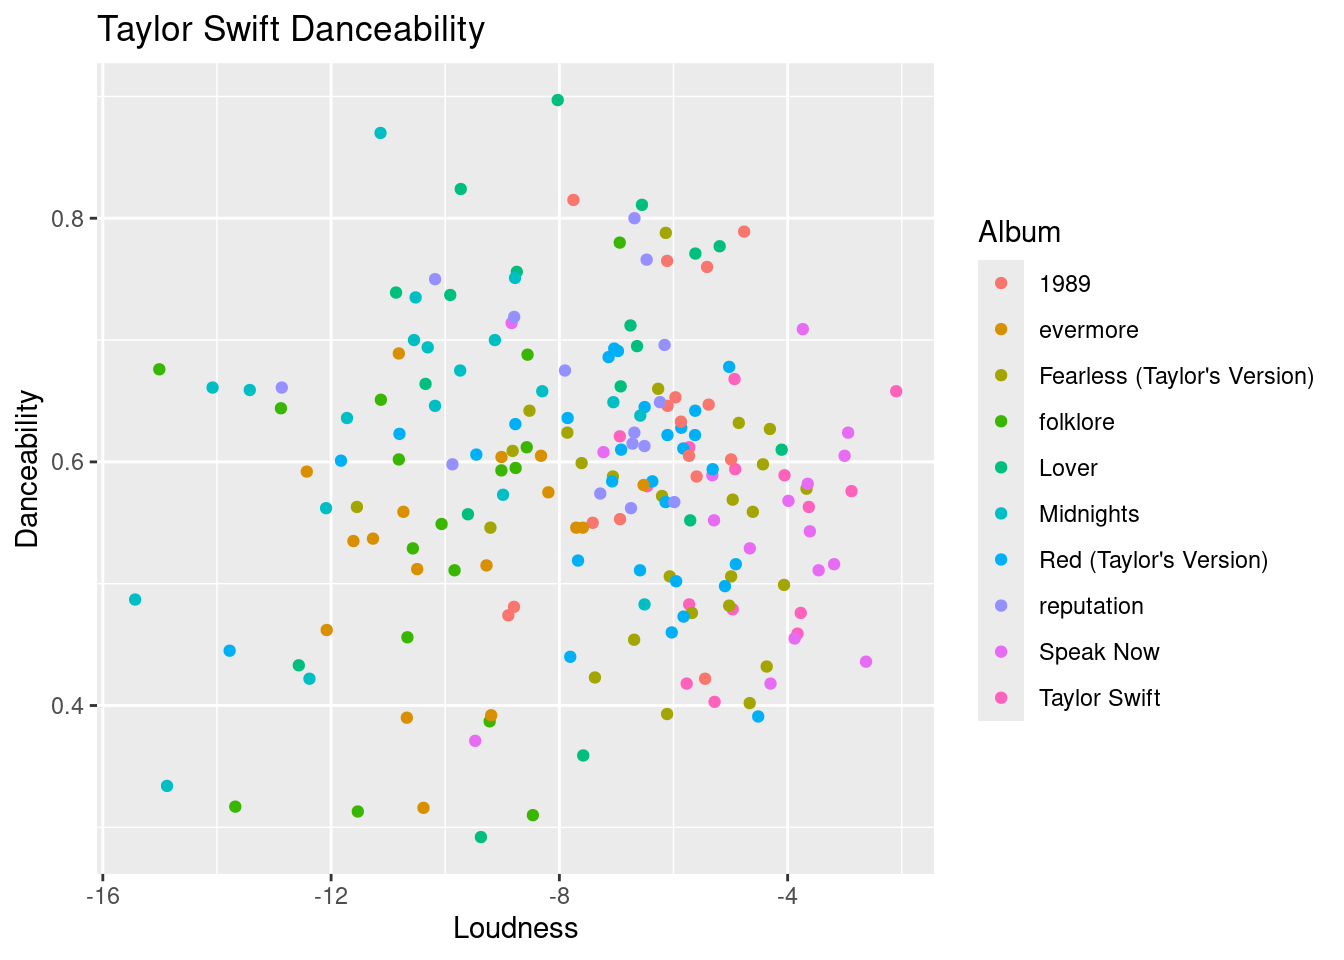
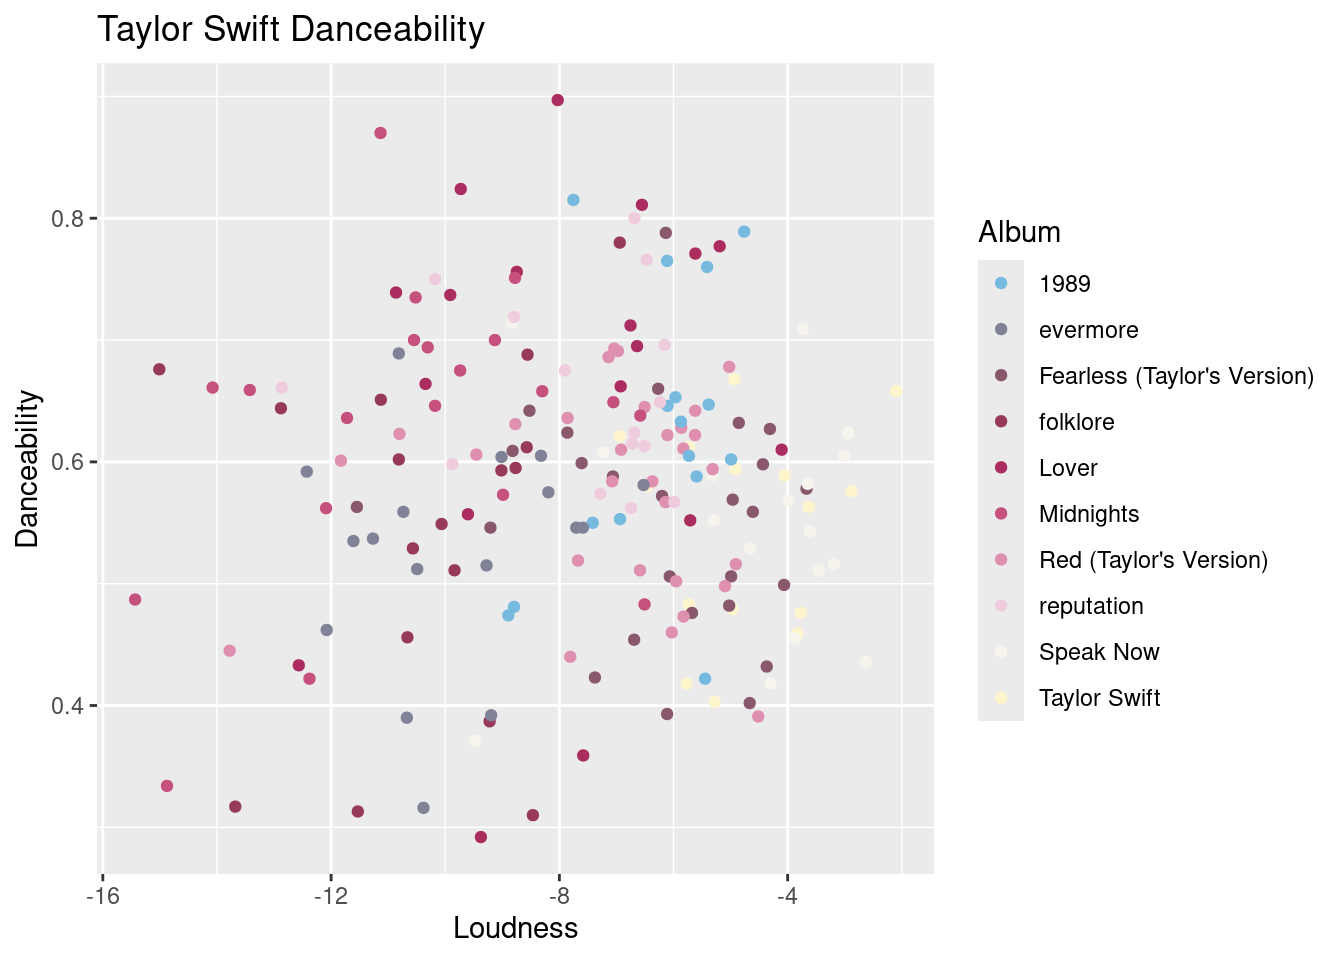
Hopefully I am done!

diff --git a/docs/TidyTuesday.html b/docs/TidyTuesday.html
@@ -8,7 +8,7 @@
 
 <meta name="author" content="Olivia Rosenthal">
 
-<title>Tidy Tuesday 1 – Liv Rosenthal’s Website!</title>
+<title>Pixar Movies - Tidy Tuesday 1 – Liv Rosenthal’s Website!</title>
 <style>
 /* Default styles provided by pandoc.
 ** See https://pandoc.org/MANUAL.html#variables-for-html for config info.
@@ -159,7 +159,7 @@ pre > code.sourceCode > span > a:first-child::before { text-decoration: underlin
 
 <header id="title-block-header" class="quarto-title-block default">
 <div class="quarto-title">
-<h1 class="title">Tidy Tuesday 1</h1>
+<h1 class="title">Pixar Movies - Tidy Tuesday 1</h1>
 </div>
 
 
@@ -182,13 +182,16 @@ pre > code.sourceCode > span > a:first-child::before { text-decoration: underlin
 </header>
 
 
+<section id="intro" class="level1">
+<h1>Intro</h1>
+<p>Everyone loves a good Pixar movie. You go as a kid, you go as a parent, you go as a college student who misses the innocence and nostalgia that Pixar movies inspire. But why does it feel like every movie is so darn long these days? Let’s explore that through a plot.</p>
 <div class="cell">
 <div class="code-copy-outer-scaffold"><div class="sourceCode cell-code" id="cb1"><pre class="sourceCode r code-with-copy"><code class="sourceCode r"><span id="cb1-1"><a href="#cb1-1" aria-hidden="true" tabindex="-1"></a>pixar_data <span class="ot">&lt;-</span> pixar_films <span class="sc">|&gt;</span></span>
 <span id="cb1-2"><a href="#cb1-2" aria-hidden="true" tabindex="-1"></a>  <span class="fu">left_join</span>(public_response, <span class="at">by =</span> <span class="st">"film"</span>)</span></code></pre></div><button title="Copy to Clipboard" class="code-copy-button"><i class="bi"></i></button></div>
 </div>
 <div class="cell">
 <div class="code-copy-outer-scaffold"><div class="sourceCode cell-code" id="cb2"><pre class="sourceCode r code-with-copy"><code class="sourceCode r"><span id="cb2-1"><a href="#cb2-1" aria-hidden="true" tabindex="-1"></a><span class="fu">ggplot</span>(pixar_data, <span class="fu">aes</span>(<span class="at">x =</span> release_date, <span class="at">y =</span> run_time))<span class="sc">+</span></span>
-<span id="cb2-2"><a href="#cb2-2" aria-hidden="true" tabindex="-1"></a>  <span class="fu">geom_point</span>(<span class="at">color=</span> <span class="st">"navy"</span>)<span class="sc">+</span></span>
+<span id="cb2-2"><a href="#cb2-2" aria-hidden="true" tabindex="-1"></a>  <span class="fu">geom_point</span>()<span class="sc">+</span></span>
 <span id="cb2-3"><a href="#cb2-3" aria-hidden="true" tabindex="-1"></a>  <span class="fu">labs</span>(<span class="at">x =</span> <span class="st">"Release Date"</span>, <span class="at">y=</span><span class="st">"Run Time min"</span>, <span class="at">title =</span> <span class="st">"Pixar Films Release Date and Run Times"</span>)</span></code></pre></div><button title="Copy to Clipboard" class="code-copy-button"><i class="bi"></i></button></div>
 <div class="cell-output-display">
 <div>
@@ -198,8 +201,15 @@ pre > code.sourceCode > span > a:first-child::before { text-decoration: underlin
 </div>
 </div>
 </div>
+<section id="data-source" class="level3">
+<h3 class="anchored" data-anchor-id="data-source">Data Source</h3>
+<p>Data for this visualization was accessed through the <a href="https://github.com/rfordatascience/tidytuesday/tree/main/data/2025/2025-03-11">TidyTuesday Pixar Films dataset</a>.</p>
+<p><strong>Original data:</strong><br>
+Leung, Eric. <em>pixarfilms: An R Data Package to Explore Pixar Films, the People, and Reception Data</em>. Data provided mostly in part by Wikipedia.</p>
 
 
+</section>
+</section>
 
 </main> <!-- /main -->
 <script id="quarto-html-after-body" type="application/javascript">

diff --git a/docs/TidyTuesday2.html b/docs/TidyTuesday2.html
@@ -8,7 +8,7 @@
 
 <meta name="author" content="Olivia Rosenthal">
 
-<title>Tidy Tuesday 2 – Liv Rosenthal’s Website!</title>
+<title>Taylor Swift - Tidy Tuesday 2 – Liv Rosenthal’s Website!</title>
 <style>
 /* Default styles provided by pandoc.
 ** See https://pandoc.org/MANUAL.html#variables-for-html for config info.
@@ -159,7 +159,7 @@ pre > code.sourceCode > span > a:first-child::before { text-decoration: underlin
 
 <header id="title-block-header" class="quarto-title-block default">
 <div class="quarto-title">
-<h1 class="title">Tidy Tuesday 2</h1>
+<h1 class="title">Taylor Swift - Tidy Tuesday 2</h1>
 </div>
 
 
@@ -182,10 +182,12 @@ pre > code.sourceCode > span > a:first-child::before { text-decoration: underlin
 </header>
 
 
+<p>The world has grown up along side Taylor Swift, and with that, her music has changed. Here is a visualization of her songs relationship to loudness and danceability. Each point represents a song and each color represents one of her albums. This data set was made in 2023 so it includes her songs and albums up to that date.</p>
 <div class="cell">
 <div class="code-copy-outer-scaffold"><div class="sourceCode cell-code" id="cb1"><pre class="sourceCode r code-with-copy"><code class="sourceCode r"><span id="cb1-1"><a href="#cb1-1" aria-hidden="true" tabindex="-1"></a><span class="fu">ggplot</span>(Taylor_Swift, <span class="fu">aes</span>(<span class="at">x =</span> loudness, <span class="at">y =</span> danceability, <span class="at">color =</span> album_name))<span class="sc">+</span></span>
 <span id="cb1-2"><a href="#cb1-2" aria-hidden="true" tabindex="-1"></a>  <span class="fu">geom_point</span>()<span class="sc">+</span></span>
-<span id="cb1-3"><a href="#cb1-3" aria-hidden="true" tabindex="-1"></a>  <span class="fu">labs</span>(<span class="at">x =</span> <span class="st">"Loudness"</span>, <span class="at">y=</span><span class="st">"Danceability"</span>, <span class="at">title =</span> <span class="st">"Taylor Swift Danceability"</span>, <span class="at">color =</span> <span class="st">"Album"</span>)</span></code></pre></div><button title="Copy to Clipboard" class="code-copy-button"><i class="bi"></i></button></div>
+<span id="cb1-3"><a href="#cb1-3" aria-hidden="true" tabindex="-1"></a>  <span class="fu">scale_color_taylor_d</span>() <span class="sc">+</span></span>
+<span id="cb1-4"><a href="#cb1-4" aria-hidden="true" tabindex="-1"></a>  <span class="fu">labs</span>(<span class="at">x =</span> <span class="st">"Loudness"</span>, <span class="at">y=</span><span class="st">"Danceability"</span>, <span class="at">title =</span> <span class="st">"Taylor Swift Danceability"</span>, <span class="at">color =</span> <span class="st">"Album"</span>)</span></code></pre></div><button title="Copy to Clipboard" class="code-copy-button"><i class="bi"></i></button></div>
 <div class="cell-output-display">
 <div>
 <figure class="figure">
@@ -194,8 +196,14 @@ pre > code.sourceCode > span > a:first-child::before { text-decoration: underlin
 </div>
 </div>
 </div>
+<section id="data-source" class="level2">
+<h2 class="anchored" data-anchor-id="data-source">Data Source</h2>
+<p>The data for this visualization comes from the <a href="https://github.com/rfordatascience/tidytuesday/tree/main/data/2023/2023-10-17">TidyTuesday Taylor Swift dataset</a>.</p>
+<p><strong>Original data citation:</strong><br>
+[Thompson, W. Jake. <em>taylor: Lyrics and Song Data for Taylor Swift’s Discography</em>. Data sourced from Genius and the Spotify API.]</p>
 
 
+</section>
 
 </main> <!-- /main -->
 <script id="quarto-html-after-body" type="application/javascript">
